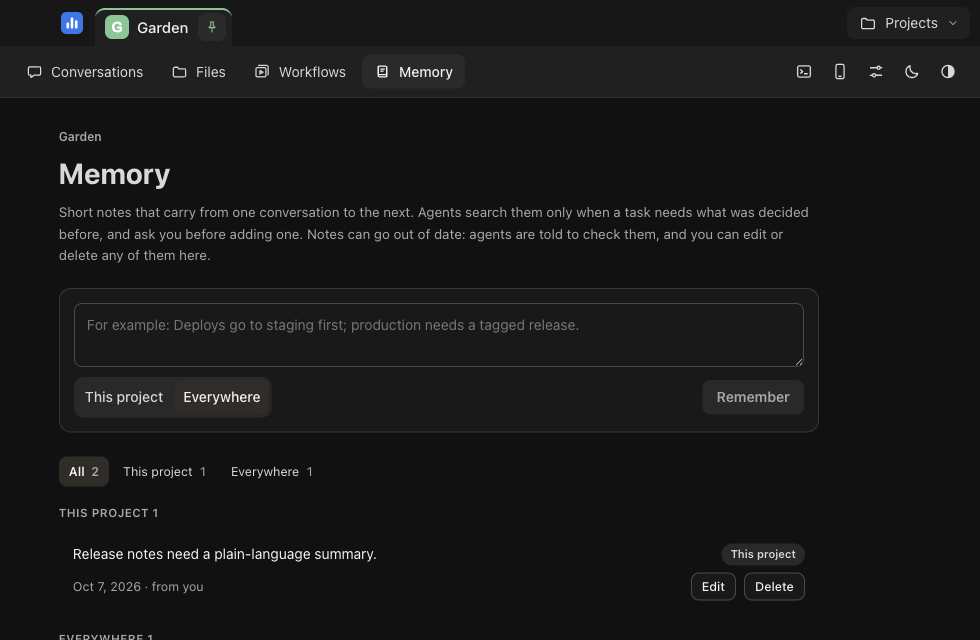
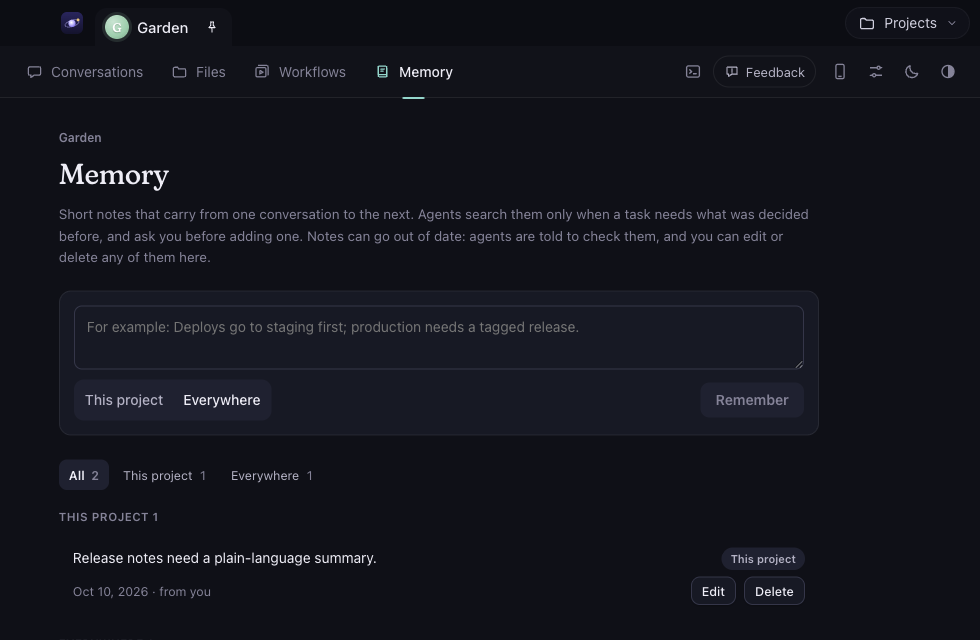
fix: instant theme switches; proofs updated for the Lumen look
A theme change (or the OS appearance flipping) holds transitions off for two frames, so every
surface changes at once instead of fading separately. Pressed toggles use the selected colour.
proof:dock hashes whole frames (orbit frames share top rows) and checks that nothing moves once
agents are waiting; proof:conversation-style expects the lifted selected row. Packaged-app proof
screenshots refreshed.

diff --git a/scripts/proof-dock.ts b/scripts/proof-dock.ts
@@ -23,16 +23,18 @@ async function launch(agent: string): Promise<{ app: ElectronApplication; page: 
   await page.waitForLoadState('domcontentloaded')
   page.setDefaultTimeout(15_000)
   await openProject(page, project, 'Dock demo')
-  // Record each icon by a slice of its PNG data, and every badge, as Cockpit sets them.
+  // Record each icon by a hash of its whole PNG data (orbit frames can share their top rows, so a
+  // slice would merge them), and every badge, as Cockpit sets them.
   await app.evaluate(({ app: electronApp, nativeImage }) => {
     // No named helpers in here: the proof's bundler would wrap them in a __name() the app lacks.
     const dock = electronApp.dock!
     const log = { icons: [] as string[], badges: [] as string[],
-      rest: nativeImage.createFromPath(`${electronApp.getAppPath()}/dist-electron/dock/rest.png`).toDataURL().slice(3000, 3120) }
+      rest: '' }
+    { const d = nativeImage.createFromPath(`${electronApp.getAppPath()}/dist-electron/dock/rest.png`).toDataURL(); let h = 0; for (let i = 0; i < d.length; i += 3) h = (h * 31 + d.charCodeAt(i)) | 0; log.rest = `${d.length}:${h}` }
     ;(globalThis as unknown as { dockLog: typeof log }).dockLog = log
     const original = { setIcon: dock.setIcon.bind(dock), setBadge: dock.setBadge.bind(dock) }
     Object.assign(dock, {
-      setIcon(image: Electron.NativeImage) { log.icons.push(image.toDataURL().slice(3000, 3120)); original.setIcon(image) },
+      setIcon(image: Electron.NativeImage) { const d = image.toDataURL(); let h = 0; for (let i = 0; i < d.length; i += 3) h = (h * 31 + d.charCodeAt(i)) | 0; log.icons.push(`${d.length}:${h}`); original.setIcon(image) },
       setBadge(text: string) { log.badges.push(text); original.setBadge(text) },
     })
   })
@@ -57,14 +59,14 @@ async function untilStatuses(page: Page, what: string, test: (statuses: string[]
 const { check, finish } = checker()
 let { app, page } = await launch('silent-agent')
 try {
-  check('the rest frame is packaged', (await dockLog(app)).rest.length === 120)
+  check('the rest frame is packaged', Number((await dockLog(app)).rest.split(':')[0]) > 1_000)
   await apiPost(page, '/api/threads', { projectPath: project, text: 'Keep working on this' })
   await page.locator('.card').filter({ hasText: 'Keep working' }).waitFor()
   await page.waitForTimeout(2_200)
   const moving = await dockLog(app)
   const distinct = new Set(moving.icons).size
   // 2.2 s at FRAME_MS (100 ms) is about 22 frame changes.
-  check('while an agent works the icon cycles its frames', moving.icons.length >= 18 && moving.icons.length <= 26 && distinct >= 16,
+  check('while an agent works the icon cycles its frames', moving.icons.length >= 16 && moving.icons.length <= 26 && distinct >= 14,
     `${moving.icons.length} changes in 2.2 s, ${distinct} different`)
   check('the moving frames are not the plain icon', !moving.icons.includes(moving.rest))
   check('working alone sets no badge', await badge(app) === '')
@@ -88,7 +90,12 @@ try {
   await untilStatuses(page, 'two waiting', (all) => all.filter((x) => x === 'needs_input').length === 2)
   await page.waitForTimeout(500)
   check('the badge counts conversations that need you', await badge(app) === '2', await badge(app))
-  check('waiting is not working: the icon stays still', (await dockLog(app)).icons.length <= 2, `${(await dockLog(app)).icons.length} changes`)
+  // The turns start as working, so the moon may move until each asks; once both wait, nothing moves.
+  const atWait = await dockLog(app)
+  await page.waitForTimeout(1_000)
+  const stillWaiting = await dockLog(app)
+  check('waiting is not working: the icon stays still', stillWaiting.icons.length === atWait.icons.length && (atWait.icons.length === 0 || atWait.icons.at(-1) === atWait.rest),
+    `${stillWaiting.icons.length - atWait.icons.length} changes while waiting`)
 
   await page.locator('.card').filter({ hasText: 'First needs' }).click()
   for (const step of ['echo step 1', 'echo step 2']) {

diff --git a/web/src/theme.ts b/web/src/theme.ts
@@ -14,11 +14,34 @@ function load(): ThemeMode {
   }
 }
 
+/**
+ * Runs `change` with every transition held off until two frames later, so a theme switch lands all
+ * at once instead of each surface fading from the old colours at its own pace (styles.css
+ * .theme-switching).
+ */
+function withoutTransitions(change: () => void): void {
+  const root = document.documentElement
+  root.classList.add('theme-switching')
+  change()
+  requestAnimationFrame(() => requestAnimationFrame(() => root.classList.remove('theme-switching')))
+}
+
 /** tokens.css switches on data-theme; the desktop app's native chrome follows along. */
 function apply(mode: ThemeMode): void {
-  if (mode === 'system') delete document.documentElement.dataset.theme
-  else document.documentElement.dataset.theme = mode
+  withoutTransitions(() => {
+    if (mode === 'system') delete document.documentElement.dataset.theme
+    else document.documentElement.dataset.theme = mode
+  })
   native?.setTheme(mode)
+}
+
+// Following the OS: when its appearance changes, switch at once too.
+try {
+  matchMedia('(prefers-color-scheme: dark)').addEventListener('change', () => {
+    if (!document.documentElement.dataset.theme) withoutTransitions(() => undefined)
+  })
+} catch {
+  // no matchMedia (tests): nothing to follow
 }
 
 export function useTheme(): { mode: ThemeMode; set: (mode: ThemeMode) => void } {

diff --git a/scripts/proof-conversation-style.ts b/scripts/proof-conversation-style.ts
@@ -72,7 +72,9 @@ try {
     const style = getComputedStyle(el)
     return { border: style.borderWidth, shadow: style.boxShadow, fill: style.backgroundColor }
   })
-  check('selected row is filled without a card border or shadow', selectedStyle.border === '0px' && selectedStyle.shadow === 'none' && selectedStyle.fill !== 'rgba(0, 0, 0, 0)', JSON.stringify(selectedStyle))
+  // Lumen: the selected row is lifted onto paper (a soft shadow, no border) with a selected-colour mark at its edge.
+  const selectedMark = await page.locator('.card.selected').evaluate((el) => getComputedStyle(el, '::before').width)
+  check('selected row is lifted onto paper, without a border, with its edge mark', selectedStyle.border === '0px' && selectedStyle.shadow !== 'none' && selectedStyle.fill !== 'rgba(0, 0, 0, 0)' && selectedMark === '2px', JSON.stringify({ ...selectedStyle, selectedMark }))
   check('handoff review styles survived the parked commit', await page.evaluate(() => {
     return [...document.styleSheets].some((sheet) => {
       try { return [...sheet.cssRules].some((rule) => rule.cssText.includes('.handoff-review')) } catch { return false }

diff --git a/web/src/styles/thread.css b/web/src/styles/thread.css
@@ -68,7 +68,7 @@
 }
 .segment > button:hover:not(:disabled), .segment .icon-button:hover { background: var(--field); color: var(--strong); }
 .segment > button:disabled { color: var(--muted); opacity: 0.45; }
-.segment > button[aria-pressed='true'] { color: var(--success); background: color-mix(in srgb, var(--success) 12%, transparent); }
+.segment > button[aria-pressed='true'] { color: var(--selected); background: var(--selected-soft); }
 .thread-menu { position: relative; }
 .menu-right { right: 0; left: auto; }
 .menu-note { margin: 6px 10px; font-size: 12px; color: var(--muted); }

diff --git a/web/src/styles.css b/web/src/styles.css
@@ -50,3 +50,6 @@ code { font-family: var(--mono); font-size: 0.86em; }
 .doc-surface h1, .doc-surface h2, .activity-head h2, .release-notes-body h3, .list-empty strong {
   font-family: var(--display); font-variation-settings: var(--display-axes); font-weight: 450; letter-spacing: -0.015em; color: var(--strong);
 }
+
+/* A theme switch lands all at once (theme.ts): no surface fades from the old colours on its own. */
+.theme-switching, .theme-switching *, .theme-switching *::before, .theme-switching *::after { transition: none !important; }

diff --git a/web/src/styles/phone.css b/web/src/styles/phone.css
@@ -80,7 +80,8 @@
   .thread-head h1 { font-size: 17px; white-space: normal; display: -webkit-box; -webkit-line-clamp: 2; -webkit-box-orient: vertical; }
   .thread-status { gap: 8px; }
   .events { padding: 14px 12px 8px; }
-  .bubble { padding: 11px 14px; font-size: 15px; }
+  .bubble { font-size: 15px; }
+  .bubble.user { padding-left: 12px; }
   .composer { padding: 4px 10px calc(10px + env(safe-area-inset-bottom)); }
   .composer textarea { font-size: 16px; }
   .phone .composer-foot > .icon-button { display: none; }
